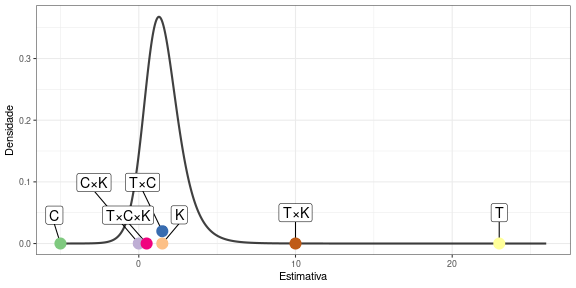
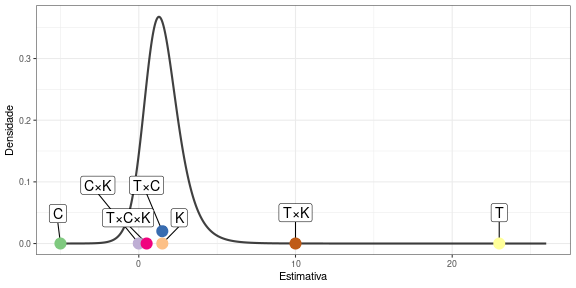
10-12-2025

Changed region(s): [[0.125, 0.5938, 0.3438, 0.8438], [0.0625, 0.6875, 0.125, 0.8125]]

diff --git a/Aulas/MATD48-12.html b/Aulas/MATD48-12.html
@@ -97,8 +97,8 @@ Numa estrutura **fatorial 2&lt;sup&gt;3&lt;/sup&gt;**, o efeito de três fatores
 
 Usando os sinais de `\(-\)` e `\(+\)` para denotar os níveis **baixo** e **alto**, respectivamente, de cada fator estudado, é possível apresentar a estrutura dos tratamentos como segue:
 
-<div class="datatables html-widget html-fill-item" id="htmlwidget-a702c5163ca53685a02d" style="width:100%;height:auto;"></div>
-<script type="application/json" data-for="htmlwidget-a702c5163ca53685a02d">{"x":{"filter":"none","vertical":false,"class":"compact hover","data":[[1,2,3,4,5,6,7,8],["(1)","a","b","ab","c","ac","bc","abc"],["−","+","−","+","−","+","−","+"],["−","−","+","+","−","−","+","+"],["−","−","−","−","+","+","+","+"]],"container":"<table class=\"display\" style=\"font-size:12px;width:400px\">\n  <thead>\n    <tr>\n      <th style=\"text-align: center;vertical-align: middle;\" colspan=\"2\" rowspan=\"2\">Tratamentos<\/th>\n      <th style=\"text-align: center;\" colspan=\"3\">Fatores<\/th>\n    <\/tr>\n    <tr>\n      <th style=\"text-align:center;border-left:solid 1px;\" colspan=\"1\">A<\/th>\n      <th style=\"text-align:center\" colspan=\"1\">B<\/th>\n      <th style=\"text-align:center\" colspan=\"1\">C<\/th>\n    <\/tr>\n  <\/thead>\n<\/table>","options":{"autoWidth":false,"fixedColumns":true,"dom":"t","columnDefs":[{"className":"dt-center","targets":[0,1,2,3,4]},{"bSortable":false,"targets":[0,1,2,3,4]},{"name":"N","targets":0},{"name":"Tratamentos","targets":1},{"name":"A","targets":2},{"name":"B","targets":3},{"name":"C","targets":4}],"order":[],"orderClasses":false,"rowCallback":"function(row, data, displayNum, displayIndex, dataIndex) {\nvar value=data[-1]; $(this.api().cell(row, -1).node()).css({'font-size':'12px'});\nvar value=data[0]; $(this.api().cell(row, 0).node()).css({'font-size':'12px'});\nvar value=data[1]; $(this.api().cell(row, 1).node()).css({'font-size':'12px'});\nvar value=data[2]; $(this.api().cell(row, 2).node()).css({'font-size':'12px'});\nvar value=data[3]; $(this.api().cell(row, 3).node()).css({'font-size':'12px'});\nvar value=data[1]; $(this.api().cell(row, 1).node()).css({'border-left':'solid 1px'});\nvar value=data[2]; $(this.api().cell(row, 2).node()).css({'border-left':'solid 1px'});\n}"}},"evals":["options.rowCallback"],"jsHooks":[]}</script>
+<div class="datatables html-widget html-fill-item" id="htmlwidget-f06debd168fe6f40434c" style="width:100%;height:auto;"></div>
+<script type="application/json" data-for="htmlwidget-f06debd168fe6f40434c">{"x":{"filter":"none","vertical":false,"class":"compact hover","data":[[1,2,3,4,5,6,7,8],["(1)","a","b","ab","c","ac","bc","abc"],["−","+","−","+","−","+","−","+"],["−","−","+","+","−","−","+","+"],["−","−","−","−","+","+","+","+"]],"container":"<table class=\"display\" style=\"font-size:12px;width:400px\">\n  <thead>\n    <tr>\n      <th style=\"text-align: center;vertical-align: middle;\" colspan=\"2\" rowspan=\"2\">Tratamentos<\/th>\n      <th style=\"text-align: center;\" colspan=\"3\">Fatores<\/th>\n    <\/tr>\n    <tr>\n      <th style=\"text-align:center;border-left:solid 1px;\" colspan=\"1\">A<\/th>\n      <th style=\"text-align:center\" colspan=\"1\">B<\/th>\n      <th style=\"text-align:center\" colspan=\"1\">C<\/th>\n    <\/tr>\n  <\/thead>\n<\/table>","options":{"autoWidth":false,"fixedColumns":true,"dom":"t","columnDefs":[{"className":"dt-center","targets":[0,1,2,3,4]},{"bSortable":false,"targets":[0,1,2,3,4]},{"name":"N","targets":0},{"name":"Tratamentos","targets":1},{"name":"A","targets":2},{"name":"B","targets":3},{"name":"C","targets":4}],"order":[],"orderClasses":false,"rowCallback":"function(row, data, displayNum, displayIndex, dataIndex) {\nvar value=data[-1]; $(this.api().cell(row, -1).node()).css({'font-size':'12px'});\nvar value=data[0]; $(this.api().cell(row, 0).node()).css({'font-size':'12px'});\nvar value=data[1]; $(this.api().cell(row, 1).node()).css({'font-size':'12px'});\nvar value=data[2]; $(this.api().cell(row, 2).node()).css({'font-size':'12px'});\nvar value=data[3]; $(this.api().cell(row, 3).node()).css({'font-size':'12px'});\nvar value=data[1]; $(this.api().cell(row, 1).node()).css({'border-left':'solid 1px'});\nvar value=data[2]; $(this.api().cell(row, 2).node()).css({'border-left':'solid 1px'});\n}"}},"evals":["options.rowCallback"],"jsHooks":[]}</script>
 
 ---
 ## Fatoriais 2&lt;sup&gt;3&lt;/sup&gt;
@@ -183,8 +183,8 @@ com `\(g\)` graus de liberdade.
 Um engenheiro químico deseja investigar os efeitos de **temperatura** (`\(\text{T}\)`), **concentração** (`\(\text{C}\)`) e **catalisador** (`\(\text{K}\)`) na **produção** de uma certa substância química. Para tanto, ele considera os seguintes níveis de cada fator:
 
 ---
-<div class="datatables html-widget html-fill-item" id="htmlwidget-d6a5170f0cc80b68f244" style="width:100%;height:auto;"></div>
-<script type="application/json" data-for="htmlwidget-d6a5170f0cc80b68f244">{"x":{"filter":"none","vertical":false,"class":"compact hover","data":[[160],[180],[20],[40],["A"],["B"]],"container":"<table class=\"display\" style=\"font-size:12px;width:300px\">\n  <thead>\n    <tr>\n      <th style=\"text-align: center;vertical-align: middle;\" colspan=\"2\">Temperatura<\/th>\n      <th style=\"text-align: center;vertical-align: middle;\" colspan=\"2\">Concentração<\/th>\n      <th style=\"text-align: center;vertical-align: middle;\" colspan=\"2\">Catalisador<\/th>\n    <\/tr>\n    <tr>\n      <th style=\"text-align: center;vertical-align: middle;\" colspan=\"2\">T (°C)<\/th>\n      <th style=\"text-align: center;vertical-align: middle;\" colspan=\"2\">C  (%)<\/th>\n      <th style=\"text-align: center;vertical-align: middle;\" colspan=\"2\">K<\/th>\n    <\/tr>\n    <tr>\n      <th style=\"text-align: center;\" colspan=\"1\">−<\/th>\n      <th style=\"text-align: center;\" colspan=\"1\">+<\/th>\n      <th style=\"text-align: center;border-left:solid 1px;\" colspan=\"1\">−<\/th>\n      <th style=\"text-align: center;\" colspan=\"1\">+<\/th>\n      <th style=\"text-align: center;border-left:solid 1px;\" colspan=\"1\">−<\/th>\n      <th style=\"text-align: center;\" colspan=\"1\">+<\/th>\n    <\/tr>\n  <\/thead>\n<\/table>","options":{"autoWidth":false,"fixedColumns":true,"dom":"t","columnDefs":[{"className":"dt-center","targets":[0,1,2,3,4,5]},{"bSortable":false,"targets":[0,1,2,3,4,5]},{"name":"Tm","targets":0},{"name":"Tp","targets":1},{"name":"Cm","targets":2},{"name":"Cp","targets":3},{"name":"Km","targets":4},{"name":"Kp","targets":5}],"rowCallback":"function(row,data) {\n                                  if($(row)[\"0\"][\"_DT_RowIndex\"] % 2 <1) \n                                  $(row).css(\"background\",\"#edf4f5\") //#f2f9ec\nvar value=data[-1]; $(this.api().cell(row, -1).node()).css({'font-size':'12px'});\nvar value=data[0]; $(this.api().cell(row, 0).node()).css({'font-size':'12px'});\nvar value=data[1]; $(this.api().cell(row, 1).node()).css({'font-size':'12px'});\nvar value=data[2]; $(this.api().cell(row, 2).node()).css({'font-size':'12px'});\nvar value=data[3]; $(this.api().cell(row, 3).node()).css({'font-size':'12px'});\nvar value=data[4]; $(this.api().cell(row, 4).node()).css({'font-size':'12px'});\nvar value=data[2]; $(this.api().cell(row, 2).node()).css({'border-left':'solid 1px'});\nvar value=data[3]; $(this.api().cell(row, 3).node()).css({'border-left':'solid 1px'});\nvar value=data[4]; $(this.api().cell(row, 4).node()).css({'border-left':'solid 1px'});\n                                }","order":[],"orderClasses":false}},"evals":["options.rowCallback"],"jsHooks":[]}</script>
+<div class="datatables html-widget html-fill-item" id="htmlwidget-34e55728d2b24c5720c0" style="width:100%;height:auto;"></div>
+<script type="application/json" data-for="htmlwidget-34e55728d2b24c5720c0">{"x":{"filter":"none","vertical":false,"class":"compact hover","data":[[160],[180],[20],[40],["A"],["B"]],"container":"<table class=\"display\" style=\"font-size:12px;width:300px\">\n  <thead>\n    <tr>\n      <th style=\"text-align: center;vertical-align: middle;\" colspan=\"2\">Temperatura<\/th>\n      <th style=\"text-align: center;vertical-align: middle;\" colspan=\"2\">Concentração<\/th>\n      <th style=\"text-align: center;vertical-align: middle;\" colspan=\"2\">Catalisador<\/th>\n    <\/tr>\n    <tr>\n      <th style=\"text-align: center;vertical-align: middle;\" colspan=\"2\">T (°C)<\/th>\n      <th style=\"text-align: center;vertical-align: middle;\" colspan=\"2\">C  (%)<\/th>\n      <th style=\"text-align: center;vertical-align: middle;\" colspan=\"2\">K<\/th>\n    <\/tr>\n    <tr>\n      <th style=\"text-align: center;\" colspan=\"1\">−<\/th>\n      <th style=\"text-align: center;\" colspan=\"1\">+<\/th>\n      <th style=\"text-align: center;border-left:solid 1px;\" colspan=\"1\">−<\/th>\n      <th style=\"text-align: center;\" colspan=\"1\">+<\/th>\n      <th style=\"text-align: center;border-left:solid 1px;\" colspan=\"1\">−<\/th>\n      <th style=\"text-align: center;\" colspan=\"1\">+<\/th>\n    <\/tr>\n  <\/thead>\n<\/table>","options":{"autoWidth":false,"fixedColumns":true,"dom":"t","columnDefs":[{"className":"dt-center","targets":[0,1,2,3,4,5]},{"bSortable":false,"targets":[0,1,2,3,4,5]},{"name":"Tm","targets":0},{"name":"Tp","targets":1},{"name":"Cm","targets":2},{"name":"Cp","targets":3},{"name":"Km","targets":4},{"name":"Kp","targets":5}],"rowCallback":"function(row,data) {\n                                  if($(row)[\"0\"][\"_DT_RowIndex\"] % 2 <1) \n                                  $(row).css(\"background\",\"#edf4f5\") //#f2f9ec\nvar value=data[-1]; $(this.api().cell(row, -1).node()).css({'font-size':'12px'});\nvar value=data[0]; $(this.api().cell(row, 0).node()).css({'font-size':'12px'});\nvar value=data[1]; $(this.api().cell(row, 1).node()).css({'font-size':'12px'});\nvar value=data[2]; $(this.api().cell(row, 2).node()).css({'font-size':'12px'});\nvar value=data[3]; $(this.api().cell(row, 3).node()).css({'font-size':'12px'});\nvar value=data[4]; $(this.api().cell(row, 4).node()).css({'font-size':'12px'});\nvar value=data[2]; $(this.api().cell(row, 2).node()).css({'border-left':'solid 1px'});\nvar value=data[3]; $(this.api().cell(row, 3).node()).css({'border-left':'solid 1px'});\nvar value=data[4]; $(this.api().cell(row, 4).node()).css({'border-left':'solid 1px'});\n                                }","order":[],"orderClasses":false}},"evals":["options.rowCallback"],"jsHooks":[]}</script>
 
 &lt;img src="images/dadosyates.png" width="55%" style="display: block; margin: auto;" /&gt;
 
@@ -192,12 +192,12 @@ Um engenheiro químico deseja investigar os efeitos de **temperatura** (`\(\text
 ---
 ## Estimativa do efeito da temperatura
 
-`$$\begin{align*}
-\text{T}  &amp;= \bar{z}(\text{T}_+) - \bar{z}(\text{T}_-)\\
-   &amp;= \frac{72+68+83+80}{4} - \frac{61+53+52+45}{4} \\
-   &amp;= 75,\!75 - 52,\!75 \\
-   &amp;= 23
-\end{align*}$$`
+&lt;!-- $$\begin{align*} --&gt;
+&lt;!-- \text{T}  &amp;= \bar{z}(\text{T}_+) - \bar{z}(\text{T}_-)\\ --&gt;
+&lt;!--    &amp;= \frac{72+68+83+80}{4} - \frac{61+53+52+45}{4} \\ --&gt;
+&lt;!--    &amp;= 75,\!75 - 52,\!75 \\ --&gt;
+&lt;!--    &amp;= 23 --&gt;
+&lt;!-- \end{align*}$$ --&gt;
 
 &lt;img src="MATD48-12_files/figure-html/unnamed-chunk-5-1.png" style="display: block; margin: auto;" /&gt;
 
@@ -277,8 +277,8 @@ Portanto:
 ## Resumo dos Efeitos
 
 &lt;br&gt;
-<div class="datatables html-widget html-fill-item" id="htmlwidget-fbb73e6a03c86602b447" style="width:100%;height:auto;"></div>
-<script type="application/json" data-for="htmlwidget-fbb73e6a03c86602b447">{"x":{"filter":"none","vertical":false,"class":"compact hover","data":[["1","2","3","4","5","6","7","8"],["Média","T","C","K","T×C","T×K","C×K","T×C×K"],["64.2","23.0","-5.0"," 1.5"," 1.5","10.0"," 0.0"," 0.5"],["64.2 ± 0.71","23.0 ± 1.41","-5.0 ± 1.41"," 1.5 ± 1.41"," 1.5 ± 1.41","10.0 ± 1.41"," 0.0 ± 1.41"," 0.5 ± 1.41"]],"container":"<table class=\"display\" style=\"font-size:12px;width:350px\">\n  <thead>\n    <tr>\n      <th style=\"text-align: center;vertical-align: middle;\" colspan=\"2\">Efeito<\/th>\n      <th style=\"text-align: center;vertical-align: middle;\" colspan=\"1\">Estimativa<\/th>\n      <th style=\"text-align: center;vertical-align: middle;\" colspan=\"1\">Estimativa ± EP<\/th>\n    <\/tr>\n  <\/thead>\n<\/table>","options":{"autoWidth":false,"fixedColumns":true,"dom":"t","columnDefs":[{"className":"dt-left","targets":1},{"className":"dt-right","targets":[2,3]},{"bSortable":false,"targets":[0,1,2,3]},{"name":" ","targets":0},{"name":"Efeito","targets":1},{"name":"Estimativa","targets":2},{"name":"Estimativa ± Desvio Padrão","targets":3}],"order":[],"orderClasses":false,"rowCallback":"function(row, data, displayNum, displayIndex, dataIndex) {\nvar value=data[0]; $(this.api().cell(row, 0).node()).css({'font-size':'12px'});\nvar value=data[1]; $(this.api().cell(row, 1).node()).css({'font-size':'12px'});\nvar value=data[2]; $(this.api().cell(row, 2).node()).css({'font-size':'12px'});\nvar value=data[3]; $(this.api().cell(row, 3).node()).css({'font-size':'12px'});\nvar value=data[1]; $(this.api().cell(row, 1).node()).css({'border-right':'solid 1px','border-right-color':'black'});\nvar value=data[2]; $(this.api().cell(row, 2).node()).css({'border-right':'solid 1px','border-right-color':'black'});\nvar value=data[1]; $(this.api().cell(row, 2).node()).css({'background-color':isNaN(parseFloat(value)) ? '' : value <= 0 ? \"#bf630015\" : \"#dff0d8\"});\nvar value=data[2]; $(this.api().cell(row, 2).node()).css({'color':$.inArray(dataIndex + 1, [2]) >= 0 ? \"red\" : $.inArray(dataIndex + 1, [3]) >= 0 ? \"red\" : $.inArray(dataIndex + 1, [6]) >= 0 ? \"red\" : null});\nvar value=data[3]; $(this.api().cell(row, 3).node()).css({'color':$.inArray(dataIndex + 1, [2]) >= 0 ? \"red\" : $.inArray(dataIndex + 1, [3]) >= 0 ? \"red\" : $.inArray(dataIndex + 1, [6]) >= 0 ? \"red\" : null});\n}"}},"evals":["options.rowCallback"],"jsHooks":[]}</script>
+<div class="datatables html-widget html-fill-item" id="htmlwidget-8e1ca135d4d7f0bfa3fe" style="width:100%;height:auto;"></div>
+<script type="application/json" data-for="htmlwidget-8e1ca135d4d7f0bfa3fe">{"x":{"filter":"none","vertical":false,"class":"compact hover","data":[["1","2","3","4","5","6","7","8"],["Média","T","C","K","T×C","T×K","C×K","T×C×K"],["64.2","23.0","-5.0"," 1.5"," 1.5","10.0"," 0.0"," 0.5"],["64.2 ± 0.71","23.0 ± 1.41","-5.0 ± 1.41"," 1.5 ± 1.41"," 1.5 ± 1.41","10.0 ± 1.41"," 0.0 ± 1.41"," 0.5 ± 1.41"]],"container":"<table class=\"display\" style=\"font-size:12px;width:350px\">\n  <thead>\n    <tr>\n      <th style=\"text-align: center;vertical-align: middle;\" colspan=\"2\">Efeito<\/th>\n      <th style=\"text-align: center;vertical-align: middle;\" colspan=\"1\">Estimativa<\/th>\n      <th style=\"text-align: center;vertical-align: middle;\" colspan=\"1\">Estimativa ± EP<\/th>\n    <\/tr>\n  <\/thead>\n<\/table>","options":{"autoWidth":false,"fixedColumns":true,"dom":"t","columnDefs":[{"className":"dt-left","targets":1},{"className":"dt-right","targets":[2,3]},{"bSortable":false,"targets":[0,1,2,3]},{"name":" ","targets":0},{"name":"Efeito","targets":1},{"name":"Estimativa","targets":2},{"name":"Estimativa ± Desvio Padrão","targets":3}],"order":[],"orderClasses":false,"rowCallback":"function(row, data, displayNum, displayIndex, dataIndex) {\nvar value=data[0]; $(this.api().cell(row, 0).node()).css({'font-size':'12px'});\nvar value=data[1]; $(this.api().cell(row, 1).node()).css({'font-size':'12px'});\nvar value=data[2]; $(this.api().cell(row, 2).node()).css({'font-size':'12px'});\nvar value=data[3]; $(this.api().cell(row, 3).node()).css({'font-size':'12px'});\nvar value=data[1]; $(this.api().cell(row, 1).node()).css({'border-right':'solid 1px','border-right-color':'black'});\nvar value=data[2]; $(this.api().cell(row, 2).node()).css({'border-right':'solid 1px','border-right-color':'black'});\nvar value=data[1]; $(this.api().cell(row, 2).node()).css({'background-color':isNaN(parseFloat(value)) ? '' : value <= 0 ? \"#bf630015\" : \"#dff0d8\"});\nvar value=data[2]; $(this.api().cell(row, 2).node()).css({'color':$.inArray(dataIndex + 1, [2]) >= 0 ? \"red\" : $.inArray(dataIndex + 1, [3]) >= 0 ? \"red\" : $.inArray(dataIndex + 1, [6]) >= 0 ? \"red\" : null});\nvar value=data[3]; $(this.api().cell(row, 3).node()).css({'color':$.inArray(dataIndex + 1, [2]) >= 0 ? \"red\" : $.inArray(dataIndex + 1, [3]) >= 0 ? \"red\" : $.inArray(dataIndex + 1, [6]) >= 0 ? \"red\" : null});\n}"}},"evals":["options.rowCallback"],"jsHooks":[]}</script>
 
 
 
